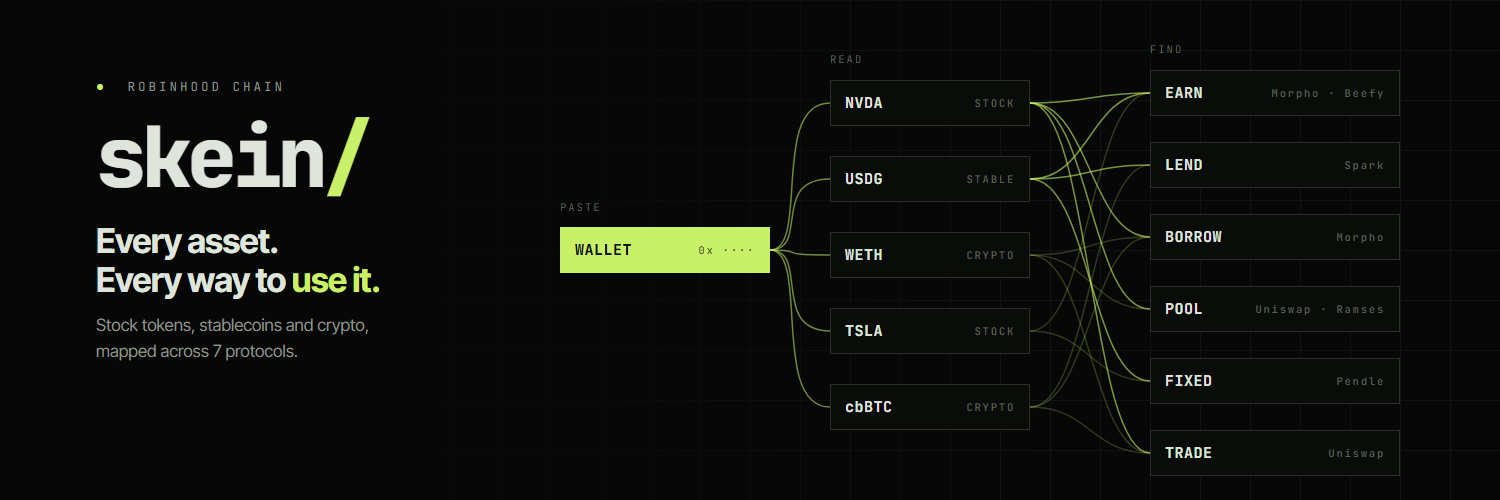
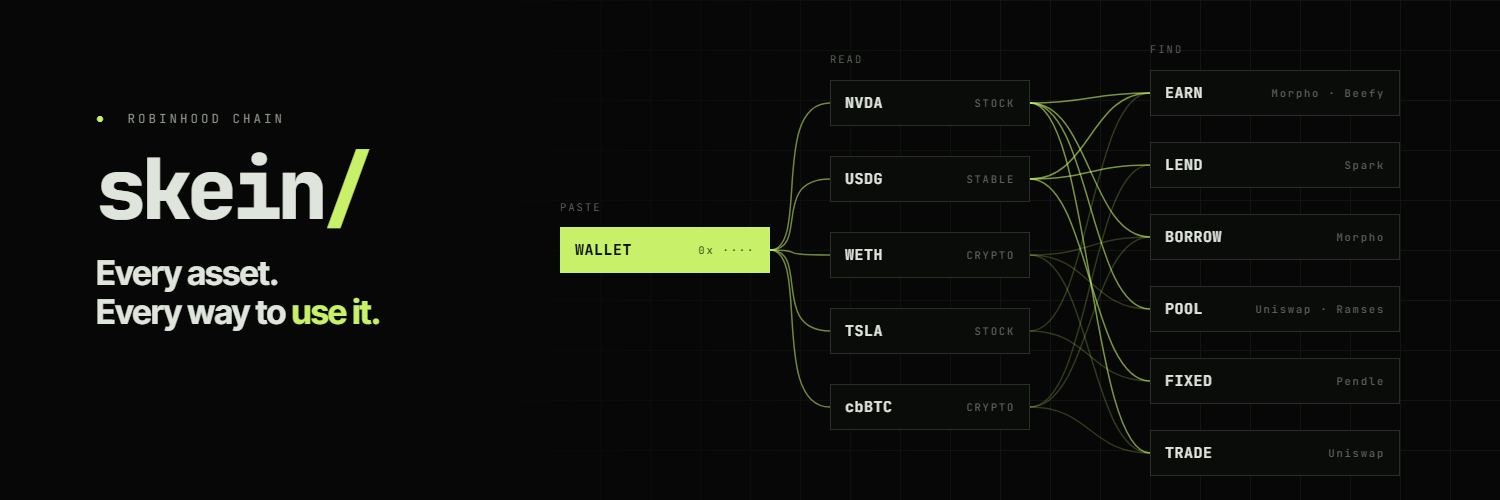
brand: drop the subline from the dark map header, 2x export

diff --git a/brand/twitter/header-map.html b/brand/twitter/header-map.html
@@ -9,11 +9,10 @@ html,body{overflow:hidden;background:#060706;color:#DFE4DC;font-family:I}
 <div style="position:relative;width:1500px;height:500px">
  <div class=grid style="-webkit-mask:linear-gradient(90deg,transparent 25%,#000 70%)"></div>
  <svg width=1500 height=500 style="position:absolute;inset:0" fill=none stroke-width=1.5><path d="M770 250 C 810 250, 770 103, 830 103" stroke="#C8F169" stroke-opacity=".55"/><path d="M770 250 C 810 250, 770 179, 830 179" stroke="#C8F169" stroke-opacity=".55"/><path d="M770 250 C 810 250, 770 255, 830 255" stroke="#C8F169" stroke-opacity=".55"/><path d="M770 250 C 810 250, 770 331, 830 331" stroke="#C8F169" stroke-opacity=".55"/><path d="M770 250 C 810 250, 770 407, 830 407" stroke="#C8F169" stroke-opacity=".55"/><path d="M1030 103 C 1090 103, 1090 93, 1150 93" stroke="#C8F169" stroke-opacity="0.6"/><path d="M1030 103 C 1090 103, 1090 237, 1150 237" stroke="#C8F169" stroke-opacity="0.6"/><path d="M1030 103 C 1090 103, 1090 309, 1150 309" stroke="#C8F169" stroke-opacity="0.6"/><path d="M1030 179 C 1090 179, 1090 165, 1150 165" stroke="#C8F169" stroke-opacity="0.6"/><path d="M1030 179 C 1090 179, 1090 93, 1150 93" stroke="#C8F169" stroke-opacity="0.6"/><path d="M1030 179 C 1090 179, 1090 381, 1150 381" stroke="#C8F169" stroke-opacity="0.6"/><path d="M1030 255 C 1090 255, 1090 309, 1150 309" stroke="#C8F169" stroke-opacity="0.22"/><path d="M1030 255 C 1090 255, 1090 237, 1150 237" stroke="#C8F169" stroke-opacity="0.22"/><path d="M1030 255 C 1090 255, 1090 453, 1150 453" stroke="#C8F169" stroke-opacity="0.22"/><path d="M1030 331 C 1090 331, 1090 381, 1150 381" stroke="#C8F169" stroke-opacity="0.22"/><path d="M1030 331 C 1090 331, 1090 93, 1150 93" stroke="#C8F169" stroke-opacity="0.22"/><path d="M1030 407 C 1090 407, 1090 237, 1150 237" stroke="#C8F169" stroke-opacity="0.22"/><path d="M1030 407 C 1090 407, 1090 165, 1150 165" stroke="#C8F169" stroke-opacity="0.22"/><path d="M1030 407 C 1090 407, 1090 453, 1150 453" stroke="#C8F169" stroke-opacity="0.22"/><path d="M1030 103 C 1090 103, 1090 453, 1150 453" stroke="#C8F169" stroke-opacity="0.6"/></svg>
- <div style="position:absolute;left:96px;top:78px;width:440px">
+ <div style="position:absolute;left:96px;top:110px;width:440px">
   <div class=m style="font-size:12.5px;letter-spacing:3px;color:#8D948A"><span class=l>●</span>&nbsp; ROBINHOOD CHAIN</div>
   <div class=m style="font-size:84px;font-weight:800;letter-spacing:-5px;line-height:1;margin-top:20px">skein<span class=l>/</span></div>
   <div style="font-size:34px;font-weight:700;letter-spacing:-.8px;line-height:1.15;margin-top:22px">Every asset.<br>Every way to <span class=l>use it.</span></div>
-  <div class=mu style="font-size:17px;line-height:1.5;margin-top:14px">Stock tokens, stablecoins and crypto,<br>mapped across 7 protocols.</div>
  </div>
  <div class=m style="position:absolute;left:560px;top:227px;width:210px;height:46px;display:flex;align-items:center;gap:10px;padding:0 14px;border:1px solid #C8F169;background:#C8F169;color:#0A0F04;font-size:15px;font-weight:700;letter-spacing:.5px">WALLET<span style="flex:1"></span><span style="font-size:10.5px;letter-spacing:1.8px;font-weight:500;color:#0A0F04aa">0x ····</span></div>
  <div class=m style="position:absolute;left:830px;top:80px;width:200px;height:46px;display:flex;align-items:center;gap:10px;padding:0 14px;border:1px solid #2A2F28;background:#0A0C0A;color:#DFE4DC;font-size:15px;font-weight:700;letter-spacing:.5px">NVDA<span style="flex:1"></span><span style="font-size:10.5px;letter-spacing:1.8px;font-weight:500;color:#5A6158">STOCK</span></div><div class=m style="position:absolute;left:830px;top:156px;width:200px;height:46px;display:flex;align-items:center;gap:10px;padding:0 14px;border:1px solid #2A2F28;background:#0A0C0A;color:#DFE4DC;font-size:15px;font-weight:700;letter-spacing:.5px">USDG<span style="flex:1"></span><span style="font-size:10.5px;letter-spacing:1.8px;font-weight:500;color:#5A6158">STABLE</span></div><div class=m style="position:absolute;left:830px;top:232px;width:200px;height:46px;display:flex;align-items:center;gap:10px;padding:0 14px;border:1px solid #2A2F28;background:#0A0C0A;color:#DFE4DC;font-size:15px;font-weight:700;letter-spacing:.5px">WETH<span style="flex:1"></span><span style="font-size:10.5px;letter-spacing:1.8px;font-weight:500;color:#5A6158">CRYPTO</span></div><div class=m style="position:absolute;left:830px;top:308px;width:200px;height:46px;display:flex;align-items:center;gap:10px;padding:0 14px;border:1px solid #2A2F28;background:#0A0C0A;color:#DFE4DC;font-size:15px;font-weight:700;letter-spacing:.5px">TSLA<span style="flex:1"></span><span style="font-size:10.5px;letter-spacing:1.8px;font-weight:500;color:#5A6158">STOCK</span></div><div class=m style="position:absolute;left:830px;top:384px;width:200px;height:46px;display:flex;align-items:center;gap:10px;padding:0 14px;border:1px solid #2A2F28;background:#0A0C0A;color:#DFE4DC;font-size:15px;font-weight:700;letter-spacing:.5px">cbBTC<span style="flex:1"></span><span style="font-size:10.5px;letter-spacing:1.8px;font-weight:500;color:#5A6158">CRYPTO</span></div>

diff --git a/brand/twitter/gen.py b/brand/twitter/gen.py
@@ -86,11 +86,10 @@ pages["header-map"] = (1500, 500, BASE + f"""
 <div style="position:relative;width:1500px;height:500px">
  <div class=grid style="-webkit-mask:linear-gradient(90deg,transparent 25%,#000 70%)"></div>
  <svg width=1500 height=500 style="position:absolute;inset:0" fill=none stroke-width=1.5>{''.join(paths)}</svg>
- <div style="position:absolute;left:96px;top:78px;width:440px">
+ <div style="position:absolute;left:96px;top:110px;width:440px">
   <div class=m style="font-size:12.5px;letter-spacing:3px;color:#8D948A"><span class=l>●</span>&nbsp; ROBINHOOD CHAIN</div>
   <div class=m style="font-size:84px;font-weight:800;letter-spacing:-5px;line-height:1;margin-top:20px">skein<span class=l>/</span></div>
   <div style="font-size:34px;font-weight:700;letter-spacing:-.8px;line-height:1.15;margin-top:22px">Every asset.<br>Every way to <span class=l>use it.</span></div>
-  <div class=mu style="font-size:17px;line-height:1.5;margin-top:14px">Stock tokens, stablecoins and crypto,<br>mapped across 7 protocols.</div>
  </div>
  {node(W_X,227,210,"WALLET","0x ····",True)}
  {''.join(node(A_X,y,200,s,k) for s,k,y in assets)}
